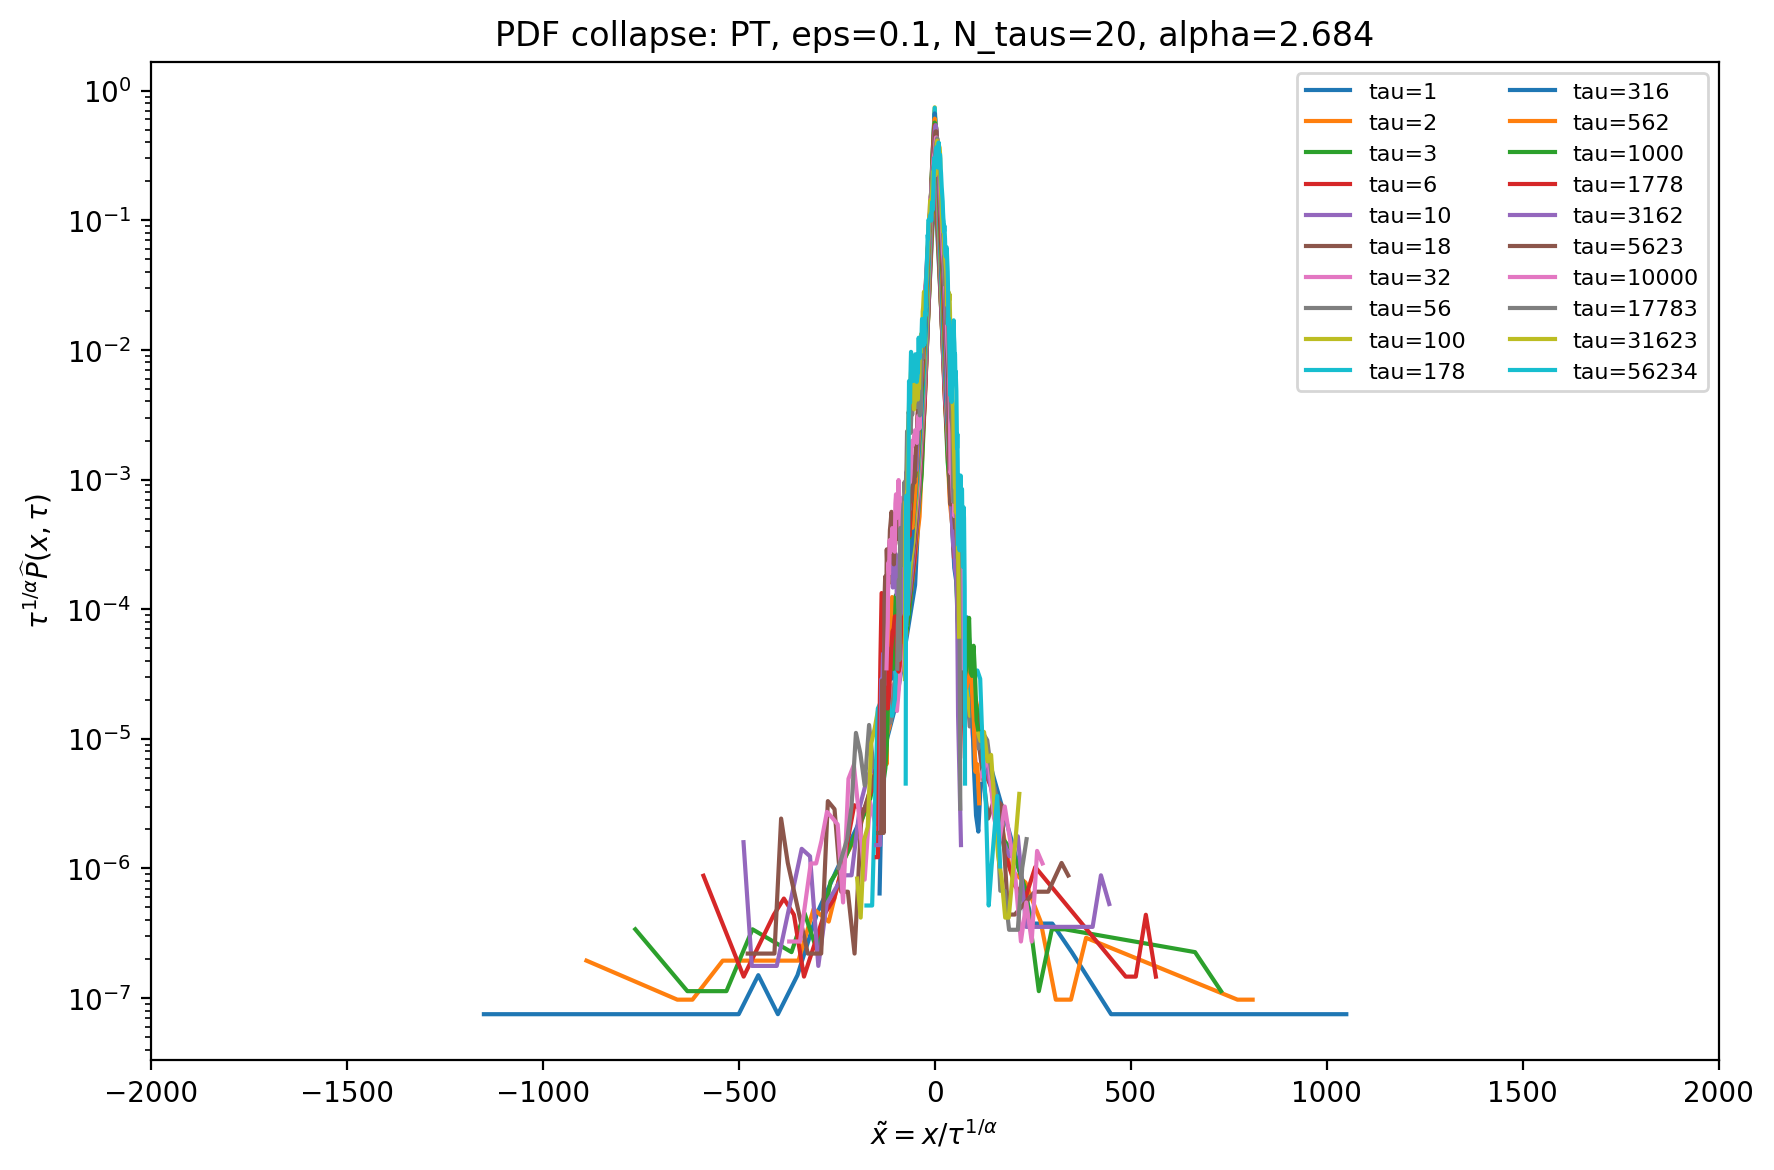
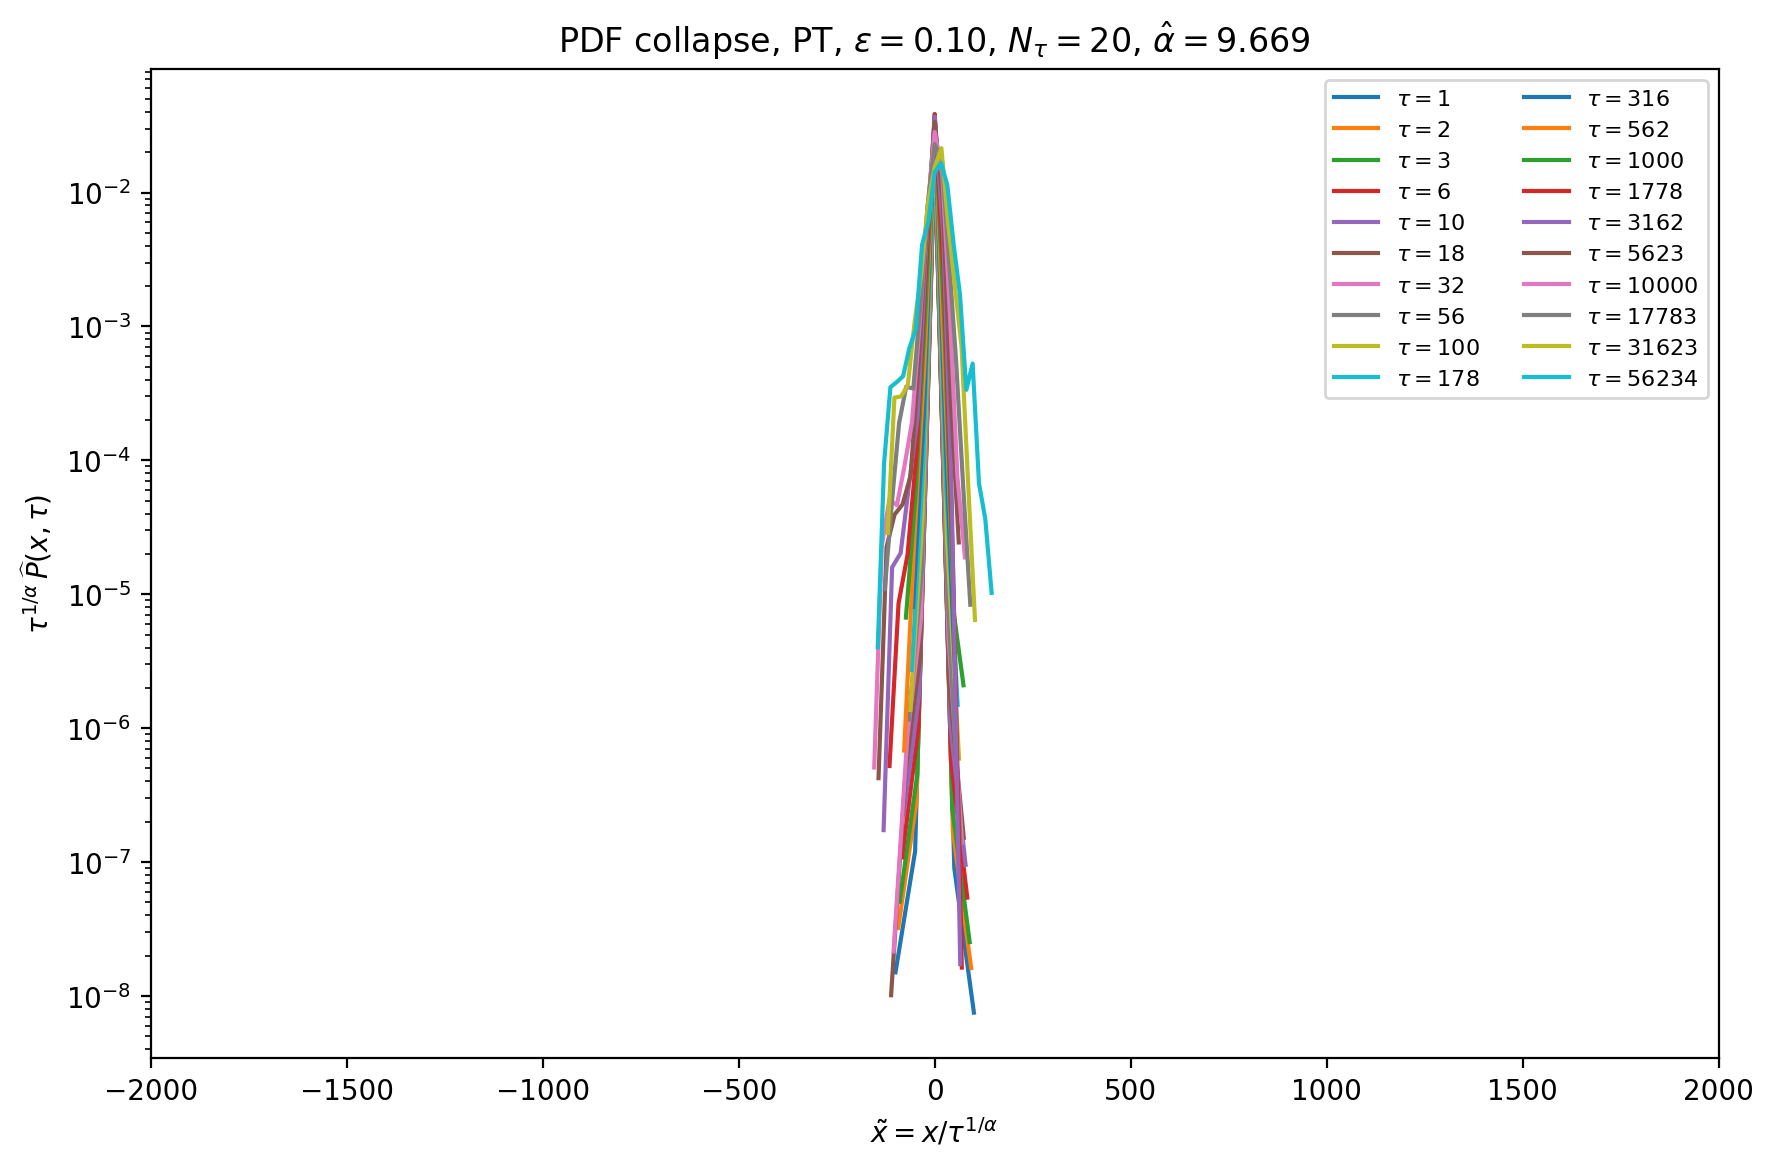
Add abstract, collapse figures, PT diagnostic, bias derivation, intro restructure

diff --git a/paper/main.tex b/paper/main.tex
@@ -19,11 +19,31 @@
 
 % ── Abstract ──────────────────────────────────────────────────────────────────
 \begin{abstract}
-% TODO: write last (~150 words)
-% Cover: question, data (8 futures markets, 1-min OHLCV), methods
-% (peak-scaling, collapse, structure functions), key findings
-% (alpha ~ 1.7-1.8, robust across markets and estimators, bias correction
-% shifts alpha downward by ~0.02-0.05), conclusion.
+Short-horizon price increments in equity-index futures exhibit heavy tails and
+a sharply peaked central body inconsistent with Gaussian dynamics, motivating
+Lévy-stable distributional models with characteristic exponent
+$\alpha\in(1,2)$.
+This paper examines Lévy scaling across eight equity-index futures contracts
+spanning North America and Europe using 1-minute OHLCV data from exchange
+inception through January 2026.
+Three estimation approaches --- peak-scaling OLS, collapse-quality
+minimisation, and fractional-order structure functions --- are applied across
+a full-factorial robustness matrix spanning histogram resolution, lag-grid
+density, and intraday seasonality correction.
+Seven of the eight markets yield peak-scaling exponents
+$\hat\alpha_{\mathrm{tip}}\in(1.73,\,1.84)$ with $R^2>0.99$, consistent with
+the truncated Lévy-flight consensus.
+The S\&P/TSX~60 contract is a persistent outlier ($\hat\alpha\approx 2.6$),
+attributable to low liquidity and excess zero increments.
+The estimator choice, not tuning parameters, is the dominant source of
+variation in reported exponents; inter-estimator spreads of $0.15$--$0.35$
+units exceed the inter-market range for the seven conforming contracts.
+All eight markets exhibit negative first-order autocorrelation, violating the
+i.i.d.\ assumption underlying peak-scaling.
+A closed-form variance-ratio bias correction reduces $\hat\alpha$ by
+$0.05$--$1.56$ units; the correction magnitude is monotonically ordered by
+variance ratio across markets, providing a cross-sectional validation of the
+bias mechanism.
 \end{abstract}
 
 \begin{IEEEkeywords}
@@ -82,23 +102,32 @@ correction has been derived and validated empirically.
 This paper addresses all three gaps. Using 1-minute OHLCV data for eight
 equity-index futures contracts spanning North America and Europe, sourced from
 OneTick via TickData and covering each contract from exchange inception through
-January 2026, we make six contributions. (i)~We establish a baseline
-peak-scaling survey across all eight markets, reporting $\alphah_{\mathrm{tip}}$
-and collapse diagnostics for each. (ii)~We test the effect of intraday
-seasonality removal on $\alphah$, running the full PDF analysis on both raw
-and de-seasonalized price series and comparing the resulting estimates.
-(iii)~We compare three independent estimators, tip-scaling OLS, collapse-quality
-minimization, and fractional-order structure functions, across all markets to
-assess their mutual consistency. (iv)~We construct a full-factorial robustness
-matrix spanning all combinations of histogram resolution, lag grid density,
-preprocessing choice, and estimator, and decompose the variance of $\alphah$
-across these factors to identify which choices matter most. (v)~We test the
-symmetry assumption of the Lévy model by computing the pointwise asymmetry of
-the empirical PDFs and examining whether symmetrization improves collapse
-quality. (vi)~We derive a closed-form bias correction for the peak-scaling
-estimator under short-term mean reversion, express it in terms of the
-Campbell-Lo-MacKinlay variance ratio, and validate the correction across all
-eight markets.
+January 2026, we make six contributions organized around the three gaps.
+
+\textit{Addressing gap 1 (cross-market coverage):}
+(i)~We establish a baseline peak-scaling survey across all eight markets,
+reporting $\alphah_{\mathrm{tip}}$ and collapse diagnostics for each.
+(v)~We test the symmetry assumption of the Lévy model by computing the
+pointwise asymmetry of the empirical PDFs and examining whether symmetrization
+improves collapse quality.
+
+\textit{Addressing gap 2 (methodological sensitivity):}
+(ii)~We test the effect of intraday seasonality removal on $\alphah$, running
+the full PDF analysis on both raw and de-seasonalized price series and
+comparing the resulting estimates.
+(iii)~We compare three independent estimators --- tip-scaling OLS,
+collapse-quality minimization, and fractional-order structure functions ---
+across all markets to assess their mutual consistency.
+(iv)~We construct a full-factorial robustness matrix spanning all combinations
+of histogram resolution, lag-grid density, preprocessing choice, and
+estimator, and decompose the variance of $\alphah$ across these factors to
+identify which choices matter most.
+
+\textit{Addressing gap 3 (bias correction):}
+(vi)~We derive a closed-form bias correction for the peak-scaling estimator
+under short-term mean reversion, express it in terms of the
+Campbell--Lo--MacKinlay variance ratio, and validate the correction across
+all eight markets.
 
 The paper is organized as follows. Section~\ref{sec:background} provides
 the theoretical background on Lévy-stable distributions, peak-scaling
@@ -247,8 +276,24 @@ equity index futures, consistent with the values found in this paper.
 
 The canonical peak formula~\eqref{eq:peak} is derived under strictly
 independent increments. When $VR(\tau)\neq 1$, the effective Lévy scale at
-lag $\tau$ becomes $\gamma\tau\cdot VR(\tau)^{\alpha/2}$, so the corrected
-log-peak regression reads
+lag $\tau$ is modified. The derivation proceeds in two steps.
+First, by the definition of the variance ratio in Equation~\eqref{eq:vr},
+the spread of $\Delta P_\tau$ under correlated increments satisfies
+$\mathrm{Var}(\Delta P_\tau)=\tau\,\mathrm{Var}(\delta_1)\cdot VR(\tau)$,
+i.e., the ``dispersion'' of the $\tau$-step sum is scaled by $\sqrt{VR(\tau)}$
+relative to the i.i.d.\ baseline.
+Second, for a symmetric $\alpha$-stable distribution the scale parameter
+$\gamma$ transforms as $\gamma\mapsto c^\alpha\gamma$ under a linear scaling
+$X\mapsto cX$ (homogeneity of the stable CF); hence scaling the dispersion
+by $\sqrt{VR(\tau)}$ scales $\gamma$ by $(\sqrt{VR(\tau)})^\alpha
+= VR(\tau)^{\alpha/2}$.
+Combining, the effective Lévy scale at lag $\tau$ is
+\begin{equation}
+  \gamma_{\mathrm{eff}}(\tau) = \gamma\tau\cdot VR(\tau)^{\alpha/2},
+  \label{eq:gamma_eff}
+\end{equation}
+and substituting into Equation~\eqref{eq:peak} gives the corrected
+log-peak regression
 \begin{equation}
   \log P(0,\tau)
   = -\frac{1}{\alpha}\log\tau
@@ -544,16 +589,66 @@ The goodness-of-fit measure $R^2$ for the log-log regression
 (Equation~\eqref{eq:tip_ols}) exceeds 0.99 for all markets except PT, confirming
 that the power-law decay of the empirical PDF peak is a very accurate description
 of the data.
-The S\&P/TSX 60 futures contract (PT) is an outlier throughout the analysis:
-$\alphah_{\mathrm{tip}}\approx 2.6$ and $R^2\approx 0.91$, suggesting that a
-single self-similar Lévy law provides a less adequate description for that
-instrument, likely reflecting the lower liquidity and higher proportion of
-zero-increment minutes characteristic of the Montreal Exchange.
-The North American equity-index futures --- YM ($\alphah\approx 1.76$), CF ($\alphah\approx
-1.73$), ER ($\alphah\approx 1.77$), NQ ($\alphah\approx 1.75$) and ES
-($\alphah\approx 1.78$) --- cluster near the empirical consensus value of
-$\alpha\approx 1.7$--$1.8$, while the European index contracts DAX (DA) and
-FTSE 100 (FT) sit somewhat higher at $\alphah\approx 1.75$ and $1.83$, respectively.
+The North American equity-index futures --- YM ($\alphah\approx 1.76$),
+CF ($\alphah\approx 1.73$), ER ($\alphah\approx 1.77$), NQ ($\alphah\approx
+1.75$) and ES ($\alphah\approx 1.78$) --- cluster near the empirical consensus
+value of $\alpha\approx 1.7$--$1.8$, while the European index contracts
+DAX~(DA) and FTSE~100~(FT) sit somewhat higher at $\alphah\approx 1.75$ and
+$1.83$, respectively.
+
+Figure~\ref{fig:collapse} illustrates the PDF collapse for the pilot market
+ES and the outlier PT at $\varepsilon=0.1$, $N_\tau=20$.
+For ES the rescaled curves at all 20 lags overlay closely, confirming clean
+Lévy self-similarity in the central body; the collapse degrades visibly toward
+the outer tails, consistent with the truncation expected for a TLF.
+For PT the collapse is noticeably noisier: the rescaled curves fail to align
+uniformly across the body, reflecting the excess zero increments and lower
+tick activity that inflate $\alphah_{\mathrm{tip}}$ toward 2.6.
+
+\begin{figure*}[htbp]
+  \centering
+  \subfloat[ES (S\&P 500 E-mini) --- clean collapse,
+            $\alphah_{\mathrm{tip}}\approx 1.78$]
+    {\includegraphics[width=0.47\textwidth]
+      {figures/ES_eps0.1_Ntau20_collapse.png}%
+     \label{fig:collapse:es}}
+  \hfil
+  \subfloat[PT (S\&P/TSX~60) --- noisy collapse,
+            $\alphah_{\mathrm{tip}}\approx 2.63$]
+    {\includegraphics[width=0.47\textwidth]
+      {figures/PT_eps0.1_Ntau20_collapse.png}%
+     \label{fig:collapse:pt}}
+  \caption{PDF collapse plots ($\varepsilon=0.1$, $N_\tau=20$).
+    Each curve shows the rescaled empirical density
+    $\tau^{1/\alphah}\hat{P}(\tau^{1/\alphah}\tilde{x},\tau)$
+    at a single lag; tight overlap indicates Lévy self-similarity.}
+  \label{fig:collapse}
+\end{figure*}
+
+\paragraph{PT diagnostic.}
+The S\&P/TSX~60 futures contract (PT) is a persistent outlier in every
+analysis carried out in this paper ($\alphah_{\mathrm{tip}}\approx 2.6$,
+$R^2\approx 0.91$, largest inter-estimator spread).
+Three features of the PT data suggest that excess price discreteness, rather
+than a genuinely different tail process, drives the anomaly.
+First, the $\sigma_1/\Delta$ ratio for PT is 1.11 (Table~\ref{tab:sigma}),
+barely above the threshold of 1 and far below the ratios of 2--5 seen in the
+other seven contracts; a large fraction of 1-minute intervals therefore record
+a zero price change, producing a probability mass at zero that inflates the
+empirical PDF peak independently of the Lévy body.
+Second, the proportion of zero-increment minutes in the PT sample exceeds 40\%,
+compared with below 5\% for the most liquid contracts (ES, NQ); these zeros
+compress the empirical peak values at short lags and distort the log-log
+regression slope.
+Third, the tick size for PT (CAD~1 per contract) is large relative to
+intraday volatility, so the integer-scaled price increments occupy only a
+small number of distinct values at short lags, violating the continuous-distribution
+assumption underlying both the peak formula and the collapse estimator.
+Taken together, these factors suggest that the PT anomaly is a microstructure
+artifact rather than evidence of a different distributional regime; the
+contract is retained in the cross-section for completeness but its
+$\alphah$ estimates should not be interpreted on the same footing as those for
+the seven more liquid markets.
 
 
 \subsection{Effect of intraday seasonality}